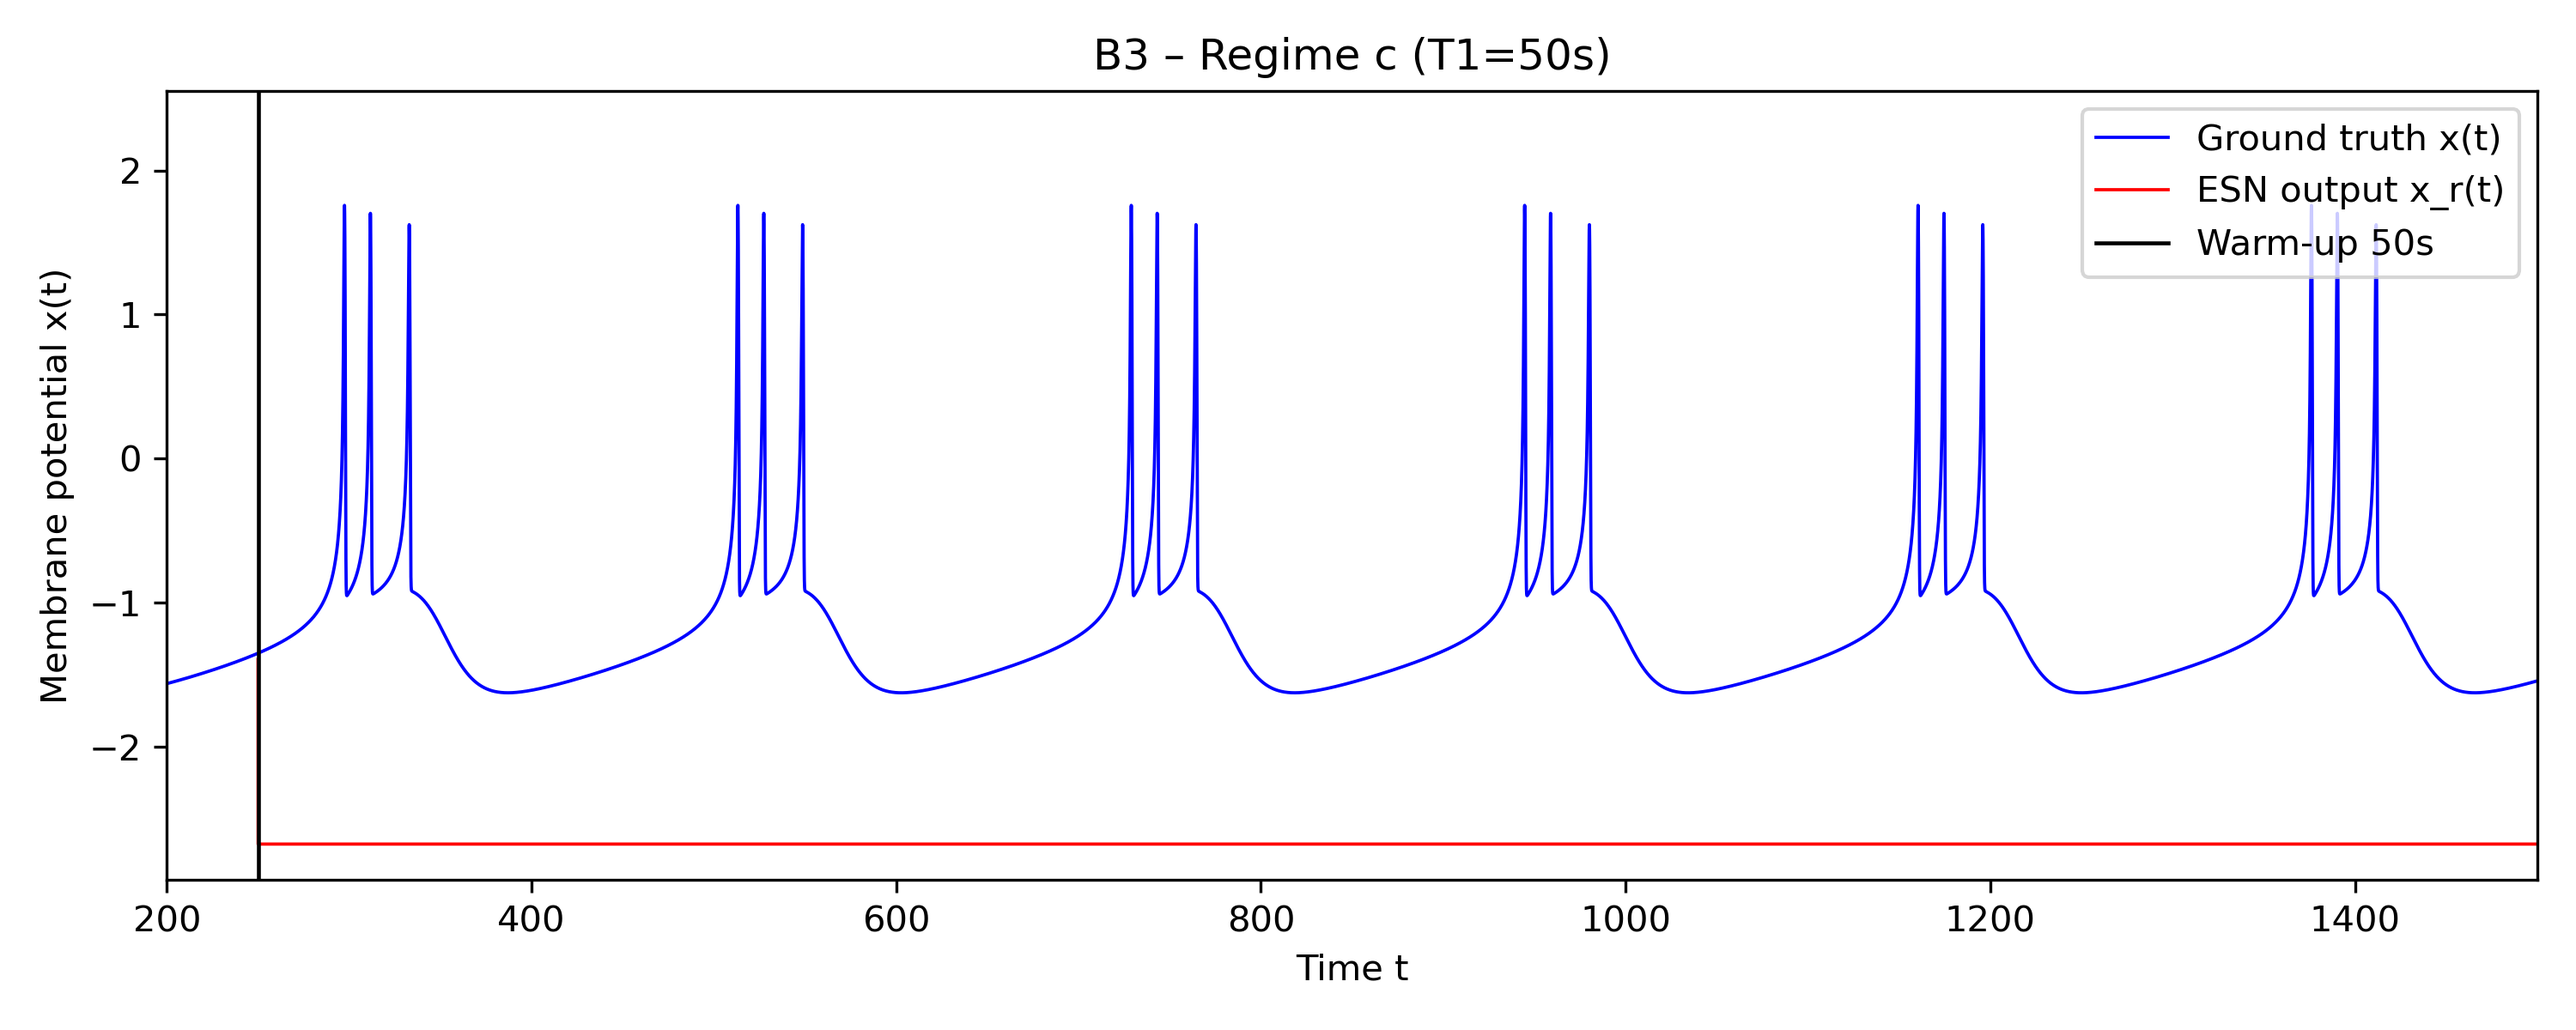
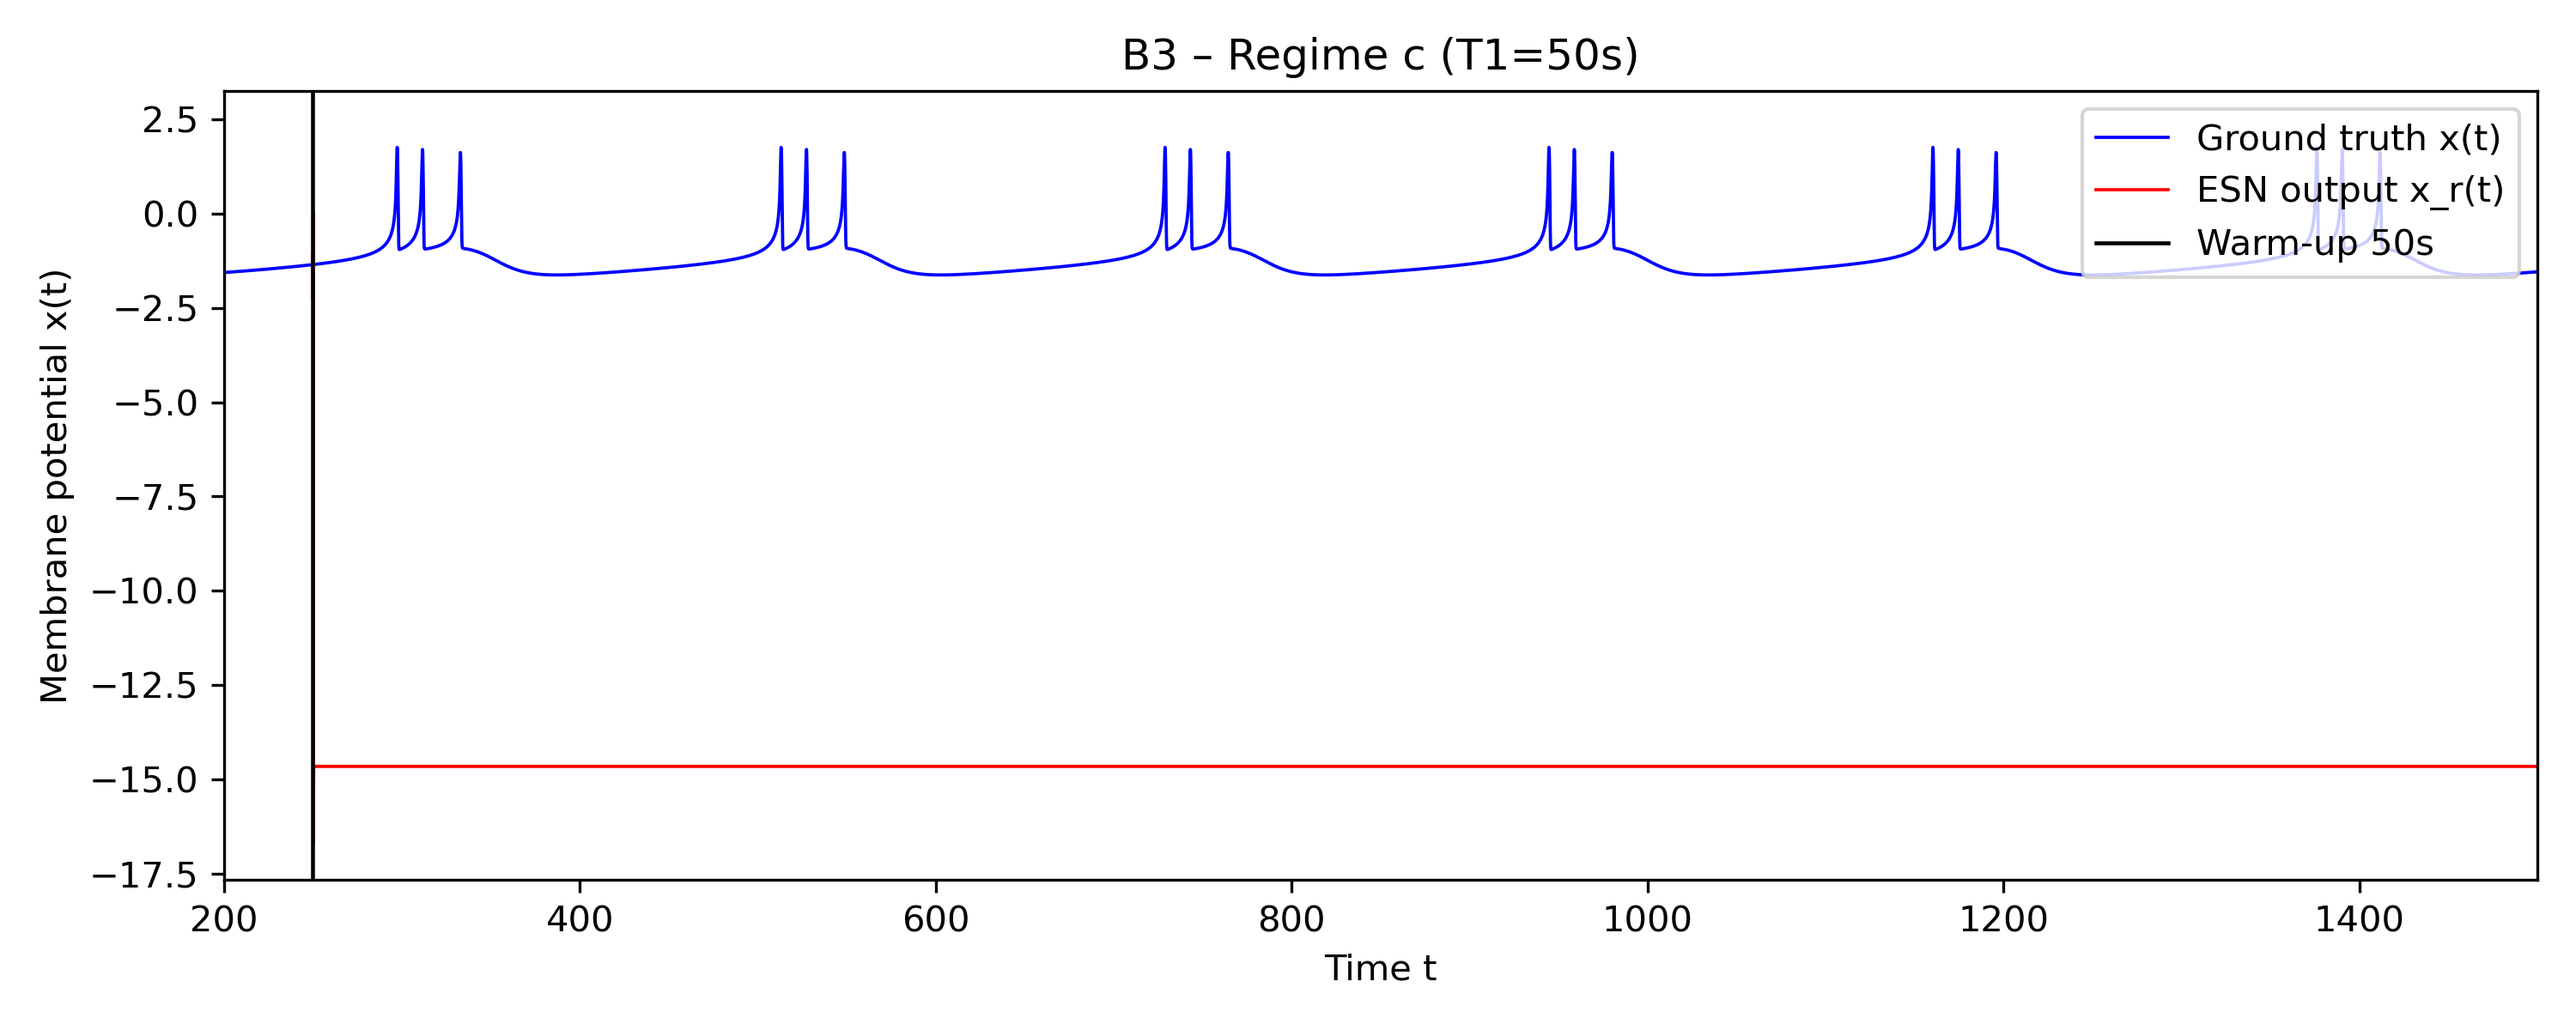
B3 upload

diff --git a/B3/B3_revised.py b/B3/B3_revised.py
@@ -69,8 +69,8 @@ for label, (I, r) in cases.items():
 
 # ---- ESN (Torch, no networkx, stable & minimal) ----
 class ESN:
-    def __init__(self, Nres=600, p=0.02, alpha=0.25, rho=0.9,
-                 lambda_reg=1e-3, in_scale=0.8, fb_scale=0.2, random_state=42):
+    def __init__(self, Nres=600, p=0.02, rho=0.90, alpha=0.30,
+                 lambda_reg=1e-4, in_scale=1.0, fb_scale=1.0, random_state=42):
         self.Nres = int(Nres)
         self.p = float(p)
         self.alpha = float(alpha)
@@ -181,7 +181,7 @@ class ESN:
             y_hat = (self.Wout @ phi_n).squeeze()  # scalar in normalized space
 
             # optional clamp in normalized space to keep stable
-            y_hat = torch.clamp(y_hat, -3.0, 3.0)
+            # y_hat = torch.clamp(y_hat, -3.0, 3.0)
 
             xr.append(float(y_hat))
 
@@ -216,6 +216,24 @@ def load_pickle(path):
     with open(path, "rb") as f:
         return pickle.load(f)
 
+def calibrate_output_gain(esn, u_norm_val):
+    # Build features with same pipeline as training
+    X, _ = esn._reservoir_states(u_norm_val, washout=0)
+    u = torch.tensor(u_norm_val, dtype=torch.float32, device=X.device)
+    X = X[:, :-1]
+    u_feat = u[:-1].unsqueeze(0)
+    bias = torch.ones(1, X.shape[1], device=X.device)
+    Phi = torch.cat([X, bias, u_feat], dim=0)
+    Phi_n = (Phi - esn._feat_mean) / esn._feat_std
+    y_hat = (Phi_n.T @ esn.Wout).cpu().numpy()
+    y = u[1:].cpu().numpy()
+
+    num = float(np.dot(y_hat, y))
+    den = float(np.dot(y_hat, y_hat) + 1e-12)
+    c = num / den
+    # Scale Wout
+    esn.Wout *= c
+    return c
 
 
 def _to_np(x):
@@ -517,40 +535,49 @@ warmups_sec = load_warmup_choices()
 
 
 # ---- Training helper (consistent normalization & washout) ----
-def train_readout_for_regime(x_full, params):
+def train_readout_for_regime(x_full, params, calib_window=5000, min_win=2000, verbose=True):
+    """
+    Train ESN on the first half of the post-transient (t >= 200 s) data, then
+    apply a one-shot output-gain calibration so the autonomous rollout has the
+    correct amplitude when de-normalized.
+
+    Returns:
+        esn  : trained (and calibrated) ESN
+        mu, sd : normalization stats computed from t >= 200 s
+    """
+    # 1) Build ESN with strong drive/feedback and moderate ridge
     esn = ESN(
         Nres=int(params["Nres"]),
         p=float(params["p"]),
         alpha=float(params["alpha"]),
         rho=float(params["rho"]),
-        lambda_reg=1e-6,
+        lambda_reg=1e-4,
+        in_scale=1.0,
+        fb_scale=1.0,
         random_state=42,
     )
 
-    # normalize after washout (>=200s)
-    u = x_full[i_wash_hr:]
-    mu, sd = float(np.mean(u)), float(np.std(u) + 1e-12)
-    u_norm = (u - mu) / sd
+    # 2) Normalize AFTER the 200 s washout (these stats MUST be reused at rollout)
+    u_post = x_full[i_wash_hr:]
+    mu, sd = float(np.mean(u_post)), float(np.std(u_post) + 1e-12)
+    u_norm = (u_post - mu) / sd
 
+    # 3) Train readout (features: [reservoir; bias; u(t)], with row-wise standardization)
     N_train = len(u_norm) // 2
-    u_tr = u_norm[:N_train]
-
-    # states
-    X, _ = esn._reservoir_states(u_tr, washout=500)
-    y = torch.tensor(u_tr[501:], dtype=torch.float32, device=X.device)
-    X = X[:, :-1]
-
-    # ---- add bias term ----
-    ones = torch.ones(1, X.shape[1], device=X.device)
-    Xb = torch.cat([X, ones], dim=0)   # shape (Nres+1, T)
-
-    I = torch.eye(Xb.shape[0], device=X.device)
-    esn.Wout = torch.linalg.solve(Xb @ Xb.T + esn.lambda_reg * I, Xb @ y)
     esn.train(u_norm[:N_train], washout=500)
-    val_err = open_loop_nrmse(esn, u_norm[N_train - 1000:N_train + 5000])  # a small slice around boundary
-    print(f"[{label}] open-loop NRMSE ≈ {val_err:.3f}")
-    esn.has_bias = True  # flag
+
+    # 4) One-shot gain calibration on a short open-loop slice around the boundary
+    a = max(0, N_train - calib_window)
+    b = min(len(u_norm), N_train + calib_window)
+    if b - a >= min_win:
+        c = calibrate_output_gain(esn, u_norm[a:b])
+        if verbose:
+            print(f"[calibration] gain c = {c:.3f}")
+    elif verbose:
+        print("[calibration] skipped (validation window too short)")
+
     return esn, mu, sd
+
 
 # ---- Plot helper ----
 def plot_overlay(label, t, x, esn, mu, sd, T_warm, linestyle, tag):
@@ -624,10 +651,10 @@ for label in ["a", "b", "c", "e"]:
     # enforce reasonable minimums (seconds)
     if label in ("b", "e"):
         T1 = max(T1, 200.0)
-        T2 = max(T2, 700.0)
+        T2 = max(T2, 1000.0)
     else:
         T1 = max(T1, 50.0)
-        T2 = max(T2, 300.0)
+        T2 = max(T2, 1000.0)
     plot_overlay(label, t, x, esn, mu, sd, T1, "-",  f"T1={T1:.0f}s")
     plot_overlay(label, t, x, esn, mu, sd, T2, "--", f"T2={T2:.0f}s")
 
